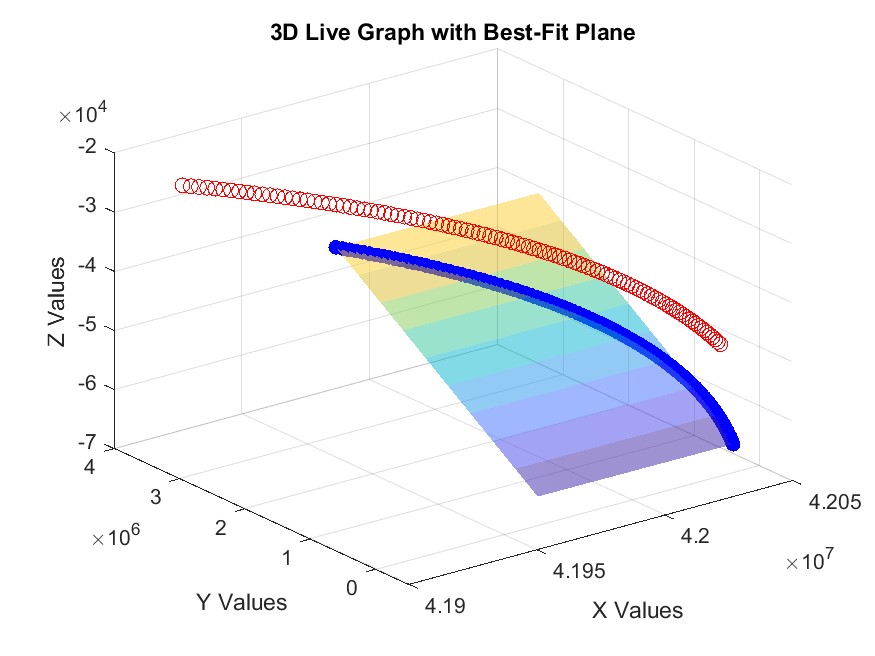
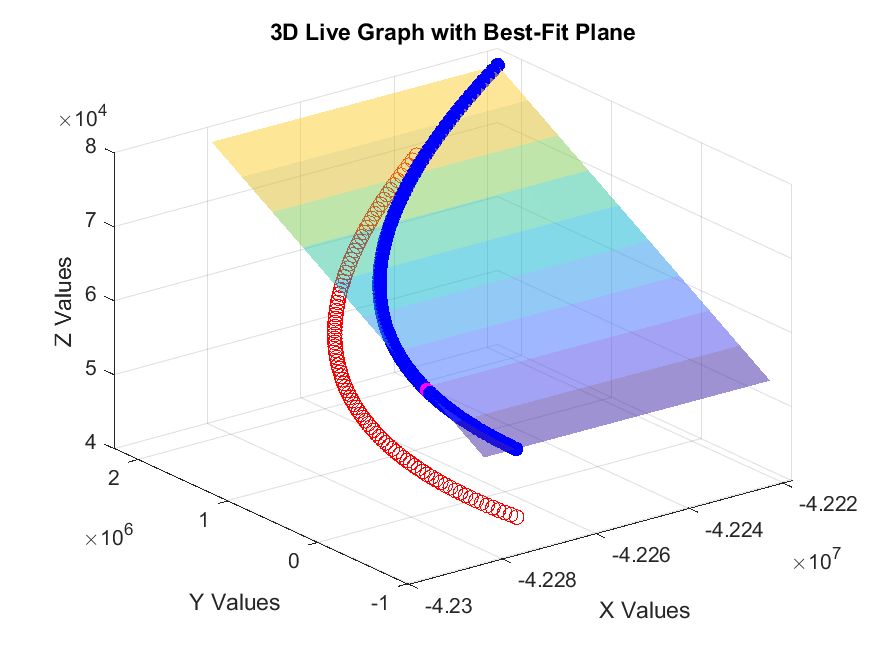
Deputy maneuvers are colored magenta

diff --git a/trajectoryFreaks/mat2.py b/trajectoryFreaks/mat2.py
@@ -17,18 +17,25 @@ eng = matlab.engine.start_matlab()
 # Define image path
 image_path = "static/images/graph.png"
 
-# Initialize x, y, z values
-s=SQL()
-q= f"""
+# Initialize sql connection
+lowerbound = 387000
+upperbound = 388000
+s = SQL()
+
+# Get the positions within our bounds
+q = f"""
         SELECT * FROM RpoPlan WHERE ? <= secondsSinceStart And secondsSinceStart <= ? ORDER BY (select Null);
         """
-x = s.query(q,(0,1000))
+rpoData = s.query(q,(lowerbound, upperbound))
+
+# Get the times for each position
+rpoTimes = [row[0] for row in rpoData]
 
 # Plot Deputy-----------------------------------------------------------------------
 # Get Deputy's positions from the sheet
-deputyXpos=[row[14] for row in x]
-deputyYpos=[row[15] for row in x]
-deputyZpos=[row[16] for row in x]
+deputyXpos = [row[14] for row in rpoData]
+deputyYpos = [row[15] for row in rpoData]
+deputyZpos = [row[16] for row in rpoData]
 
 # Convert to MATLAB format
 x_mat = matlab.double(deputyXpos[0])
@@ -58,9 +65,9 @@ eng.set(scatter_handle, 'XData', x_mat, 'YData', y_mat, 'ZData', z_mat, nargout=
 
 # Plot Chief--------------------------------------------------------------------------
 # Get Deputy's positions from the sheet
-chiefXpos=[row[8] for row in x]
-chiefYpos=[row[9] for row in x]
-chiefZpos=[row[10] for row in x]
+chiefXpos=[row[8] for row in rpoData]
+chiefYpos=[row[9] for row in rpoData]
+chiefZpos=[row[10] for row in rpoData]
 
 # Convert to MATLAB format
 x_mat = matlab.double(chiefXpos[0])
@@ -97,6 +104,38 @@ Z_mat = matlab.double(Z_fit.tolist())
 
 # Add the new best-fit plane
 plane_handle = eng.surf(X_mat, Y_mat, Z_mat, 'FaceAlpha', 0.5, 'EdgeColor', 'none', nargout=1)  # 50% transparency
+
+# Highlight points when maneuvers occur -------------------------------------------------------------
+# Get the times of maneuvers that occur within our bounds
+q = f"""
+        SELECT positionDeputyEciX,positionDeputyEciY,positionDeputyEciZ FROM ManeuverPlan JOIN RpoPlan 
+        on ManeuverPlan.secondsSinceStart = RpoPlan.secondsSinceStart where ? <= RpoPlan.secondsSinceStart And RpoPlan.secondsSinceStart <= ? 
+        ORDER BY (select RpoPlan.secondsSinceStart);
+        """
+maneuverPositions = s.query(q,(lowerbound, upperbound))
+
+# Find the coordinates of every maneuver time
+xManeuvers = [row[0] for row in maneuverPositions]
+yManeuvers = [row[1] for row in maneuverPositions]
+zManeuvers = [row[2] for row in maneuverPositions]
+
+# If there are any manuevers in these bounds, plot them
+if xManeuvers:
+    # Convert to MATLAB format
+    x_mat = matlab.double(xManeuvers[0])
+    y_mat = matlab.double(yManeuvers[0])
+    z_mat = matlab.double(zManeuvers[0])
+
+    # Create MATLAB figure
+    scatter_handle = eng.scatter3(x_mat, y_mat, z_mat, 50, 'm', 'filled', nargout=1)  # Scatter plot
+
+    # Convert updated lists to MATLAB arrays
+    x_mat = matlab.double(xManeuvers)
+    y_mat = matlab.double(yManeuvers)
+    z_mat = matlab.double(zManeuvers)
+
+    # Update scatter plot data without deleting it
+    eng.set(scatter_handle, 'XData', x_mat, 'YData', y_mat, 'ZData', z_mat, nargout=0)
 
 # Save the updated graph **without opening MATLAB**
 eng.saveas(eng.gcf(), image_path, 'png', nargout=0)
